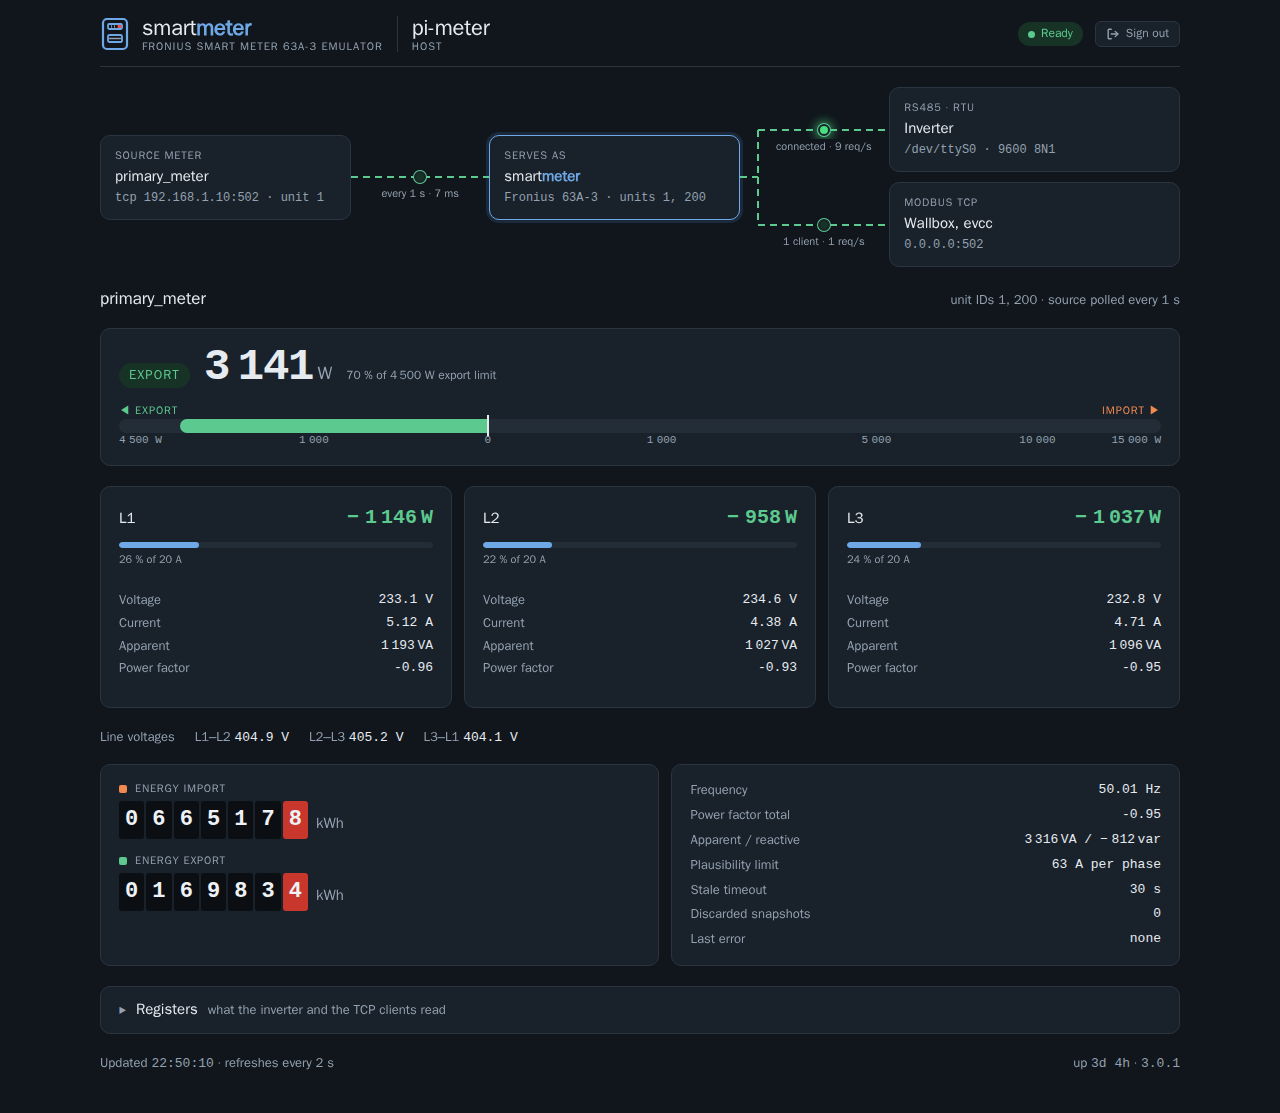
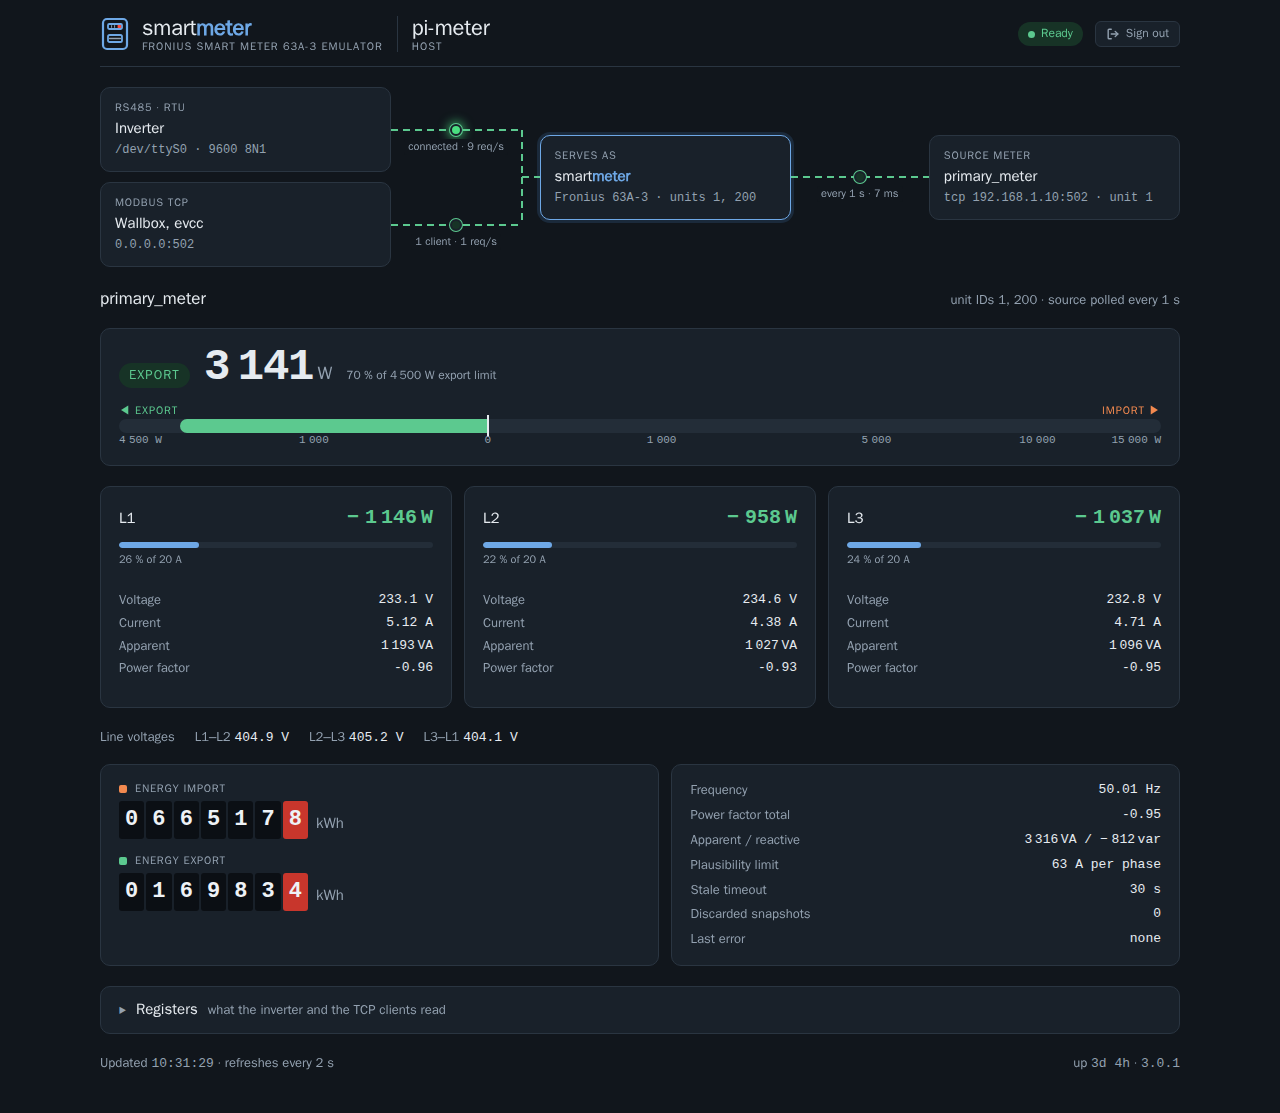
fix(ui): flow strip runs the way a request does, clients left, source meter right
- The inverter and the Modbus TCP clients are on the left, smartmeter in the middle, the source
  meter on the right: the request runs from left to right through to the device that is finally
  read, as on the sibling pages (ecoflowd, modbusgateway). The phone layout follows from top to
  bottom.
- The spine that joins several clients now sits on the right edge of their fan and feeds the hub
  at its height; the fans are named clients/sources instead of in/out.
- README text, screenshots and social preview regenerated with docs/screenshots/capture.py.

diff --git a/app/ui/index.html b/app/ui/index.html
@@ -12,7 +12,7 @@
   fonts or scripts, the Pi may have no internet access.
 -->
 <style>
-/* Layout: header, energy-flow strip (sources -> smartmeter -> inverter / TCP clients), then per
+/* Layout: header, flow strip (inverter / TCP clients -> smartmeter -> source meters), then per
    meter: power, phases, counters, details; then the registers. Tokens follow s0meter, plus energy
    colors. */
 :root {
@@ -129,9 +129,11 @@ header {
 .frozen-note { display: inline-flex; align-items: center; gap: 6px; font-size: 12px; font-weight: 600;
   color: var(--crit); background: var(--crit-soft); padding: 3px 10px; border-radius: 999px; }
 
-/* Energy flow: fan of sources and links -> smartmeter -> fan of links and targets */
+/* Flow strip, read the way a request runs: fan of clients and links -> smartmeter -> fan of links
+   and source meters. Clients on the left, the device that is finally read on the right, as on the
+   sibling pages. */
 .flow {
-  display: grid; grid-template-columns: minmax(0, 1.55fr) minmax(0, 1fr) minmax(0, 1.75fr);
+  display: grid; grid-template-columns: minmax(0, 1.75fr) minmax(0, 1fr) minmax(0, 1.55fr);
   align-items: center; gap: 0;
 }
 .node {
@@ -146,19 +148,19 @@ header {
 .node.hub h3 b { color: var(--accent); }
 .node.off { border-style: dashed; color: var(--muted); }
 .fan { display: grid; gap: 10px; min-width: 0; }
-.fan .row { display: grid; grid-template-columns: minmax(56px, .45fr) minmax(0, 1fr); align-items: center; }
-.fan.in .row { grid-template-columns: minmax(0, 1fr) minmax(56px, .55fr); }
-/* Several targets: the hub feeds a vertical spine at its own height, every target branches off it
-   with its own wire. Each row draws its piece of the spine, from the middle of the first row to
-   the middle of the last; the gap between the rows is bridged by half a gap on either side. */
-.fan.branch { position: relative; padding-left: 18px; }
+.fan .row { display: grid; grid-template-columns: minmax(0, 1fr) minmax(56px, .45fr); align-items: center; }
+.fan.sources .row { grid-template-columns: minmax(56px, .55fr) minmax(0, 1fr); }
+/* Several clients: every client's wire ends on a vertical spine that feeds the hub at its own
+   height. Each row draws its piece of the spine, from the middle of the first row to the middle
+   of the last; the gap between the rows is bridged by half a gap on either side. */
+.fan.branch { position: relative; padding-right: 18px; }
 .fan.branch::before {
-  content: ""; position: absolute; left: 0; width: 18px; top: 50%; height: 2px; transform: translateY(-50%);
+  content: ""; position: absolute; right: 0; width: 18px; top: 50%; height: 2px; transform: translateY(-50%);
   background: repeating-linear-gradient(90deg, var(--spine) 0 7px, transparent 7px 12px);
 }
 .fan.branch .row { position: relative; }
 .fan.branch .row::before {
-  content: ""; position: absolute; left: -1px; width: 2px; top: -5px; bottom: -5px;
+  content: ""; position: absolute; right: -1px; width: 2px; top: -5px; bottom: -5px;
   background: repeating-linear-gradient(180deg, var(--spine) 0 7px, transparent 7px 12px);
 }
 .fan.branch .row:first-child::before { top: 50%; }
@@ -192,10 +194,10 @@ header {
 
 @media (max-width: 760px) {
   .flow { grid-template-columns: minmax(0, 1fr); }
-  .fan.out { grid-template-columns: repeat(auto-fit, minmax(min(200px, 100%), 1fr)); }
-  .fan.branch { padding-left: 0; }
+  .fan.clients { grid-template-columns: repeat(auto-fit, minmax(min(200px, 100%), 1fr)); }
+  .fan.branch { padding-right: 0; }
   .fan.branch::before, .fan.branch .row::before { content: none; }
-  .fan .row, .fan.in .row { grid-template-columns: minmax(0, 1fr); grid-template-rows: auto auto; }
+  .fan .row, .fan.sources .row { grid-template-columns: minmax(0, 1fr); grid-template-rows: auto auto; }
   .link { height: 44px; }
   .link .wire {
     left: 50%; right: auto; top: 0; bottom: 0; width: 2px; height: auto; transform: translateX(-50%);
@@ -464,12 +466,12 @@ function renderFlow(h, meters, names, rates) {
       ? link("ok", `every ${seconds(m.pollIntervalSeconds)}` + (m.latencyMs != null ? ` · ${Math.round(m.latencyMs)} ms` : ""),
         `Polled every ${seconds(m.pollIntervalSeconds)}; the LED flashes per poll`, "src:" + n)
       : link("crit", m.ageSeconds != null ? `no data for ${span(m.ageSeconds)}` : "no data yet", m.lastError, "src:" + n);
-    return `<div class="row"><div class="node"><span class="label">Source meter</span><h3>${esc(n)}</h3><span class="addr">${addr(parts)}</span></div>${l}</div>`;
+    return `<div class="row">${l}<div class="node"><span class="label">Source meter</span><h3>${esc(n)}</h3><span class="addr">${addr(parts)}</span></div></div>`;
   }).join("");
 
   const ids = names.flatMap(n => meters[n].unitIds);
   const mute = led => link("crit", "not answering", "No valid values from the source: the unit IDs do not answer", led);
-  const targets = [];
+  const clients = [];
   const rtu = h.modbus.rtu;
   if (rtu) {
     const port = (h.rtu || [])[0];
@@ -477,19 +479,20 @@ function renderFlow(h, meters, names, rates) {
     const l = lost ? link("crit", "lost " + time(port.since), port.error, "rtu")
       : !anyOnline ? mute("rtu")
       : link("ok", "connected" + perSecond(rates.rtu), "Serial port open; the LED flashes per request", "rtu");
-    targets.push(`<div class="row">${l}<div class="node ${lost ? "off" : ""}"><span class="label">RS485 · RTU</span><h3>Inverter</h3><span class="addr">${addr([rtu.port, rtu.line])}</span></div></div>`);
+    clients.push(`<div class="row"><div class="node ${lost ? "off" : ""}"><span class="label">RS485 · RTU</span><h3>Inverter</h3><span class="addr">${addr([rtu.port, rtu.line])}</span></div>${l}</div>`);
   }
   const tcp = h.modbus.tcp;
   if (tcp) {
-    const clients = `${tcp.clients} client${tcp.clients === 1 ? "" : "s"}`;
-    const l = !anyOnline ? mute("tcp") : link("ok", clients + perSecond(rates.tcp), "Modbus TCP server; the LED flashes per request", "tcp");
-    targets.push(`<div class="row">${l}<div class="node"><span class="label">Modbus TCP</span><h3>Wallbox, evcc</h3><span class="addr">${addr([tcp.address])}</span></div></div>`);
+    const count = `${tcp.clients} client${tcp.clients === 1 ? "" : "s"}`;
+    const l = !anyOnline ? mute("tcp") : link("ok", count + perSecond(rates.tcp), "Modbus TCP server; the LED flashes per request", "tcp");
+    clients.push(`<div class="row"><div class="node"><span class="label">Modbus TCP</span><h3>Wallbox, evcc</h3><span class="addr">${addr([tcp.address])}</span></div>${l}</div>`);
   }
 
+  // Clients left, the source meters right: the request runs from left to right.
   $("flow").innerHTML = `
-    <div class="fan in">${sources}</div>
+    <div class="fan clients${clients.length > 1 ? " branch " + (anyOnline ? "ok" : "crit") : ""}">${clients.join("") || `<p class="waiting">No Modbus listener configured.</p>`}</div>
     <div class="node hub"><span class="label">Serves as</span><h3>smart<b>meter</b></h3><span class="addr">${addr(["Fronius 63A-3", "units " + ids.join(", ")])}</span></div>
-    <div class="fan out${targets.length > 1 ? " branch " + (anyOnline ? "ok" : "crit") : ""}">${targets.join("") || `<p class="waiting">No Modbus listener configured.</p>`}</div>`;
+    <div class="fan sources">${sources}</div>`;
 }
 
 // Square-root scale from the export limit (left) to the import limit (right), so 50 W stays visible.

diff --git a/README.md b/README.md
@@ -560,8 +560,9 @@ taken from one consistent copy.
 
 `https://<your-pi>:8443/` shows the state at a glance and refreshes every 2 seconds:
 
-- **Energy flow**: source meter → smartmeter → inverter (RS485) and TCP clients. A line turns red
-  when a link fails; its LED flashes once per poll of the source or per request of a client.
+- **Flow**, in the direction a request runs: inverter (RS485) and TCP clients → smartmeter → source
+  meter, as on the sibling pages. A line turns red when a link fails; its LED flashes once per
+  request of a client or per poll of the source.
 - **Power** with direction (import/export) on a bar from the export to the import limit, the three
   **phases** with current against the fuse, the **energy counters** and details such as frequency,
   power factor, discarded readings and the last error.
